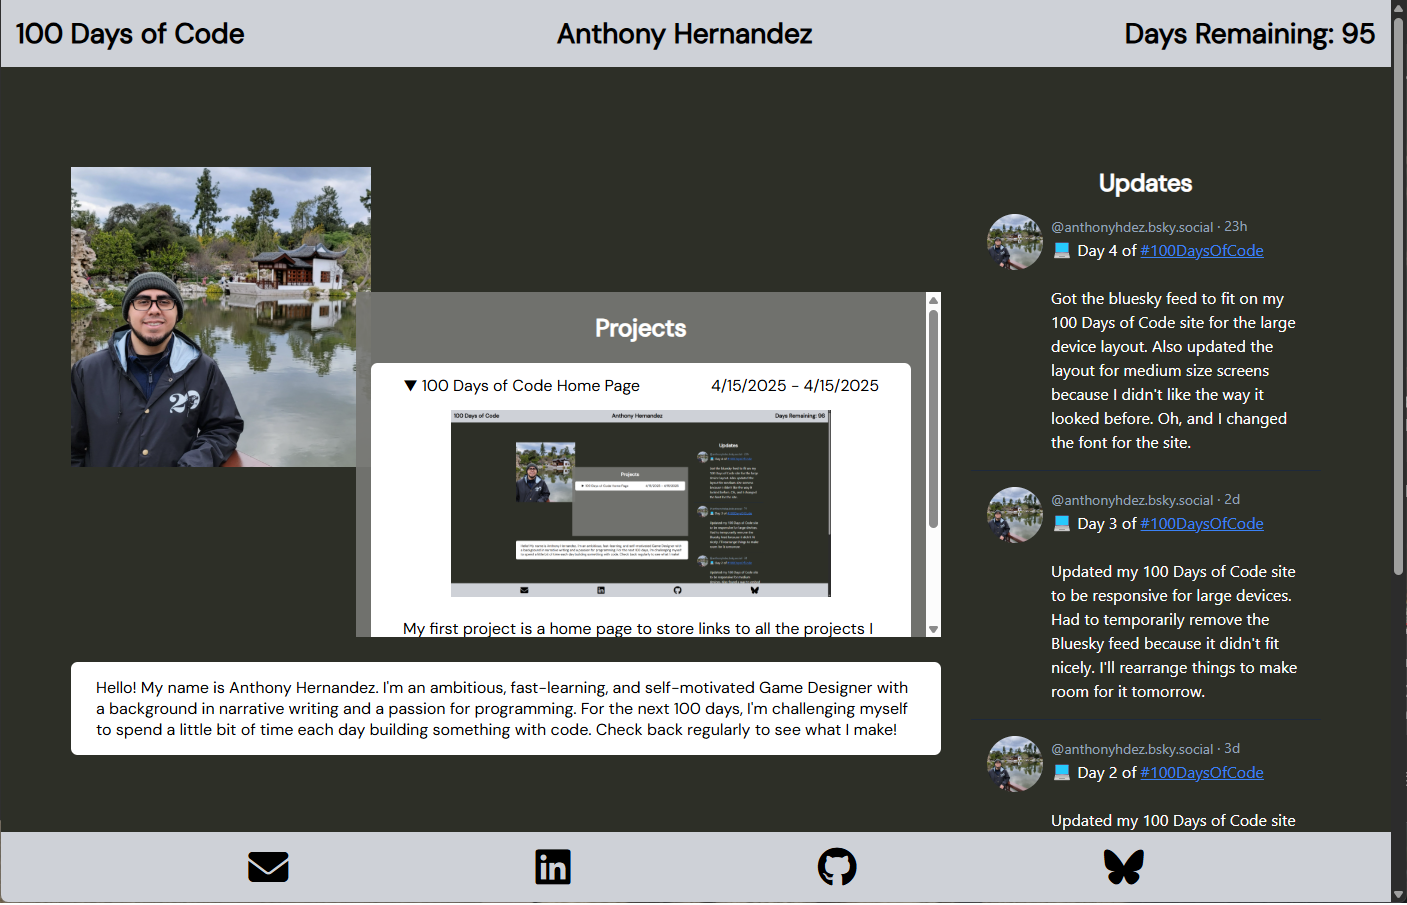
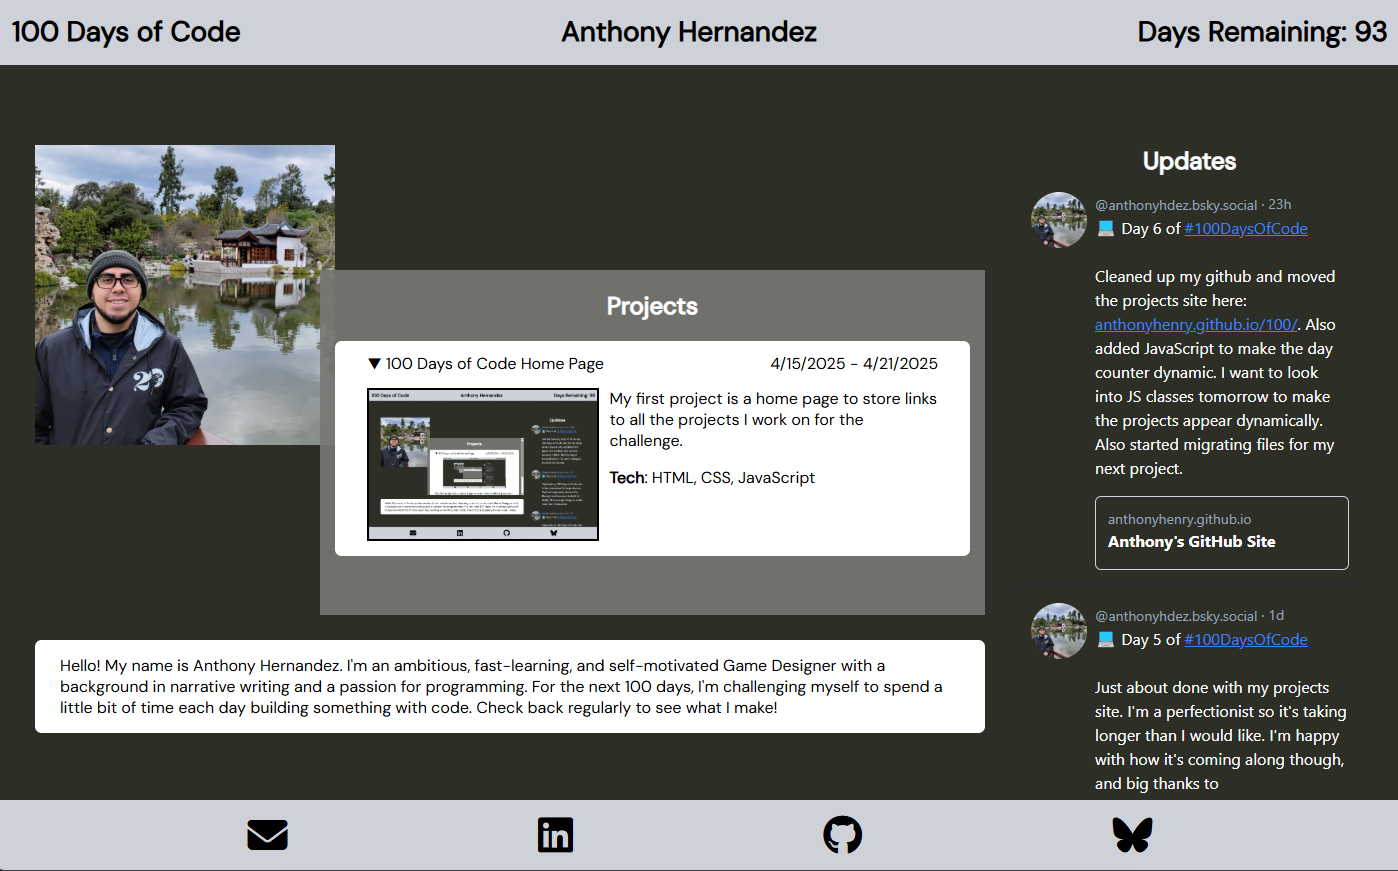
Final style changes

diff --git a/100/styles/style.css b/100/styles/style.css
@@ -122,6 +122,11 @@ details[open] .arrow::before
 	width: 80%;
 	margin-left: 10%; /* (100 - .thumbnail width) / 2 */
 	margin-top: 1em; /* This is the default margin-top of p tags */
+	border: 2px solid white;
+}
+details:nth-child(odd) .thumbnail
+{
+	border: 2px solid black;
 }
 
 #updates
@@ -168,7 +173,7 @@ header, footer
 	/* Center content on page */
 	main
 	{
-		width: 700px;
+		width: 750px;
 		margin: auto;
 	}
 	.responsive-text
@@ -207,8 +212,8 @@ header, footer
 	main
 	{
 		position: relative;
-		top: 100px;
-		width: 870px;
+		top: 80px;
+		width: 950px;
 	}
 
 	#profile > * /* All children of the profile div */
@@ -226,8 +231,8 @@ header, footer
 	{
 		position: absolute;
 		top: 0;
-		width: 435px; /* main{width} / 2 */
-		left: 342px; /* figure{width} + ( main{width} - figure{width} - #bio{width}==main{width}/2 - #bio{padding-left} - #bio{padding-right} ) / 2 */
+		width: 475px; /* main{width} / 2 */
+		left: 362px; /* figure{width} + (( main{width} - figure{width} - #bio{width} - #bio{padding-left} - #bio{padding-right} ) / 2) */
 	}
 
 	.responsive-text
@@ -240,7 +245,7 @@ header, footer
 		position: absolute;
 		top: 225px; /* figure{height} - 75 */
 		left: 285px; /* figure{width} -  details{margin} */
-		width: 585px; /* main{width} - figure{width} + details{margin} */
+		width: 665px; /* main{width} - figure{width} + details{margin-left} */
 		height: 345px;
 		overflow-y: auto;
 		padding: 0;
@@ -268,6 +273,15 @@ header, footer
 	.details-timeline
 	{
 		display: none;
+	}
+
+	.thumbnail
+	{
+		width: 40%;
+		float: left;
+		margin-left: 0;
+		margin-right: 10px;
+		margin-top: 0;
 	}
 
 	#updates
@@ -303,13 +317,13 @@ header, footer
 	{
 		left: 0;
 		top: 495px; /* #projects{height} + #projects{top} + 25 */
-		width: 820px; /* figure{width} + projects{width} - details{margin-left} - #bio{padding-left} - #bio{padding-right}*/
+		width: 900px; /* figure{width} + projects{width} - details{margin-left} - #bio{padding-left} - #bio{padding-right}*/
 	}
 
 	/* Move updates to the right side */
 	main
 	{
-		width: 1250px;
+		width: 1330px;
 		left: 0;
 	}
 	#updates
